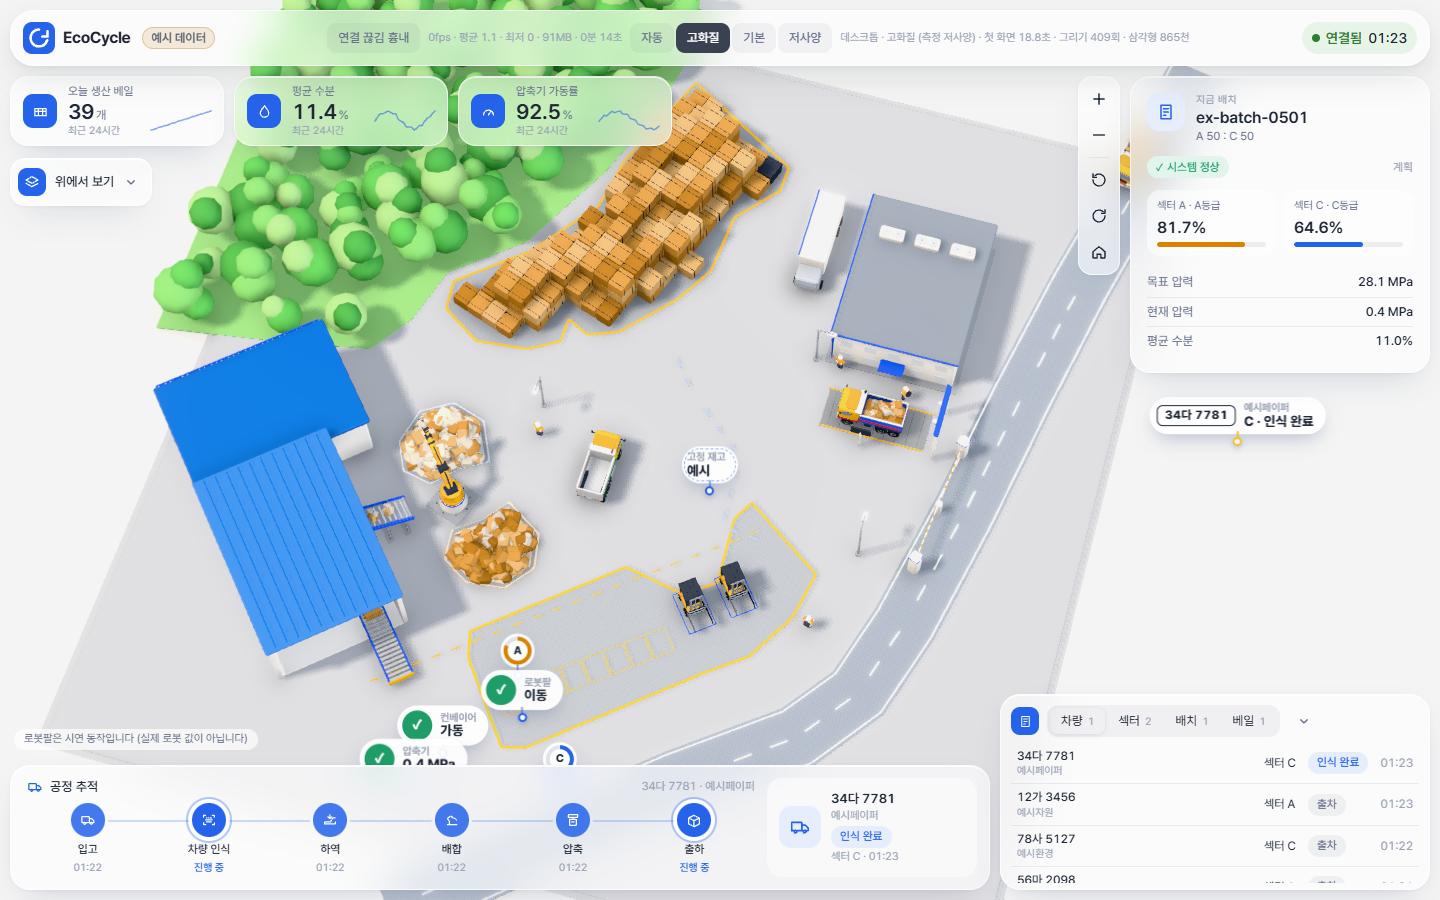
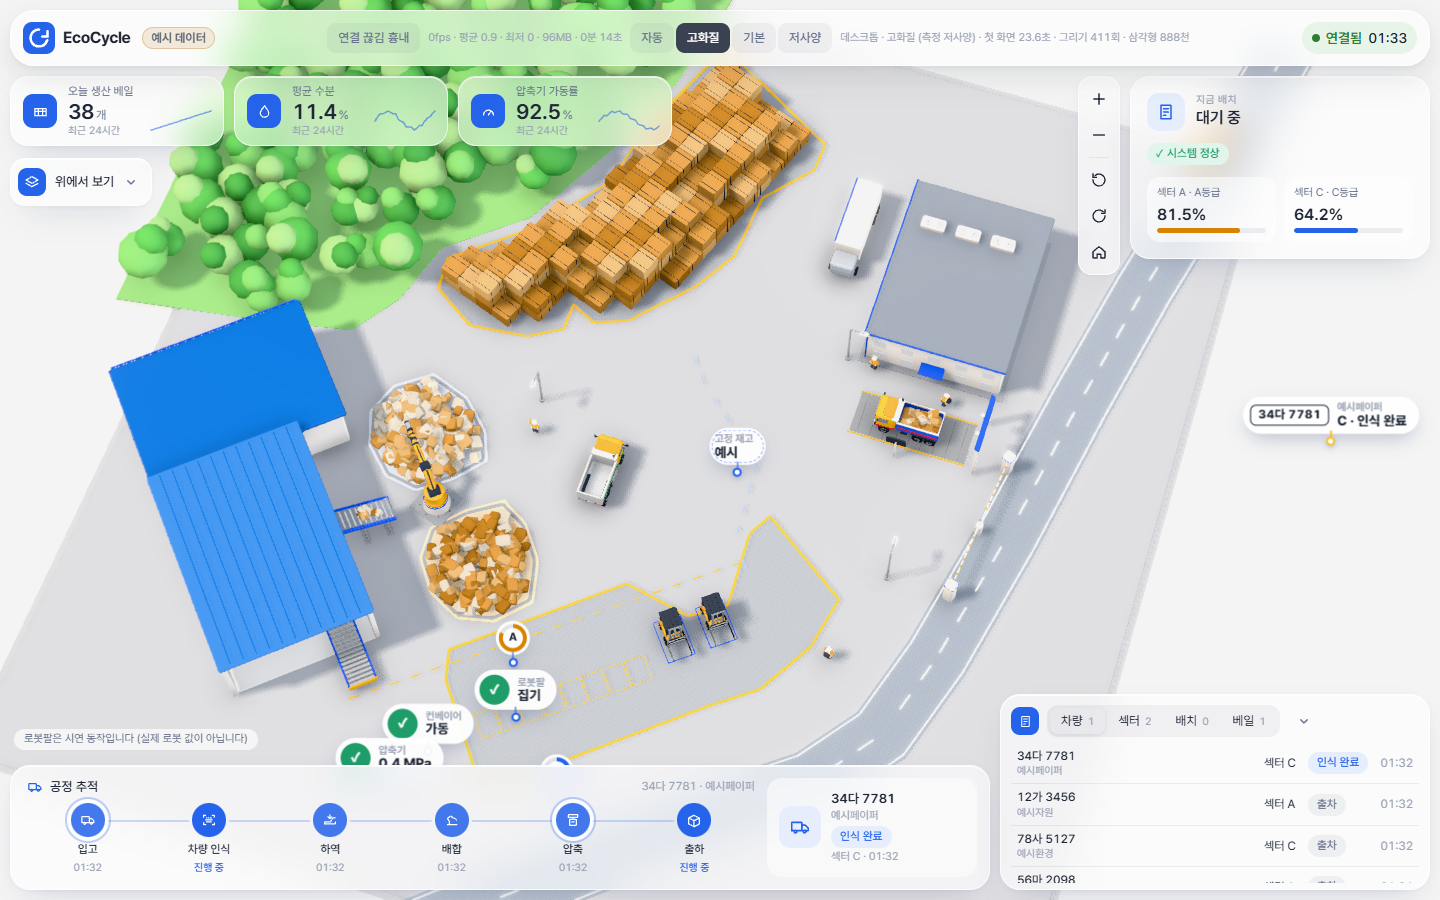
docs(studio): S2e 시안 수정 — 트럭·베일 실측으로 배율 0.072, 섹터 더미를 사진 크기로, 바닥 줄눈·파지 조각

diff --git a/docs/screenshots/studio/site-layout/README.md b/docs/screenshots/studio/site-layout/README.md
@@ -26,6 +26,6 @@
 
 | 파일 | 내용 |
 | --- | --- |
-| `sketch-coordinates.png` | **새 배치 시안**(위 표의 옛 좌표 그림을 바꿨다): 사진 px 좌표(`site-marked` 613×616, 위 = 북) 위에 `overall.png`를 맞춰 깔고 그린 배치. 옹벽·쇠 난간, 입구 경사로(유일한 출입, 차단봉 없음), 계근대(동쪽 끝 = 옹벽, 마당 쪽에서만 오르내림)와 번호판 카메라 기둥, 사무실(골판 2층·차양·실외기·흰 창고·소화기), 압축기 건물(회색 벽·파란 지붕·물탱크), 가로형 압축기·배출 받침대·베일 저울, 레일 축에 대칭인 섹터 A·C, 남동·북서 베일 블록(같은 방향·간격), 숲 경계 베일 줄, 대기 자리 3, 상차 자리(윙바디), 그물망·철판 울타리, 전봇대, 큰 파지 더미, 높은 철 기둥, 트럭·지게차 동선 |
+| `sketch-coordinates.png` | **새 배치 시안**(위 표의 옛 좌표 그림을 바꿨다): 사진 px 좌표(`site-marked` 613×616, 위 = 북) 위에 `overall.png`를 맞춰 깔고 그린 배치. 옹벽·쇠 난간, 입구 경사로(유일한 출입, 차단봉 없음), 계근대(동쪽 끝 = 옹벽, 마당 쪽에서만 오르내림)와 번호판 카메라 기둥, 사무실(골판 2층·차양·실외기·흰 창고·소화기), 압축기 건물(회색 벽·파란 지붕·물탱크), 가로형 압축기·배출 받침대·베일 저울, 레일 축에 대칭인 섹터 A·C(사진의 큰 파지 더미 크기), 흩어진 파지 조각 구역, 콘크리트 줄눈·얼룩, 사진에서 잰 트럭 둘(분홍), 남동·북서 베일 블록(같은 방향·간격), 숲 경계 베일 줄, 대기 자리 3, 상차 자리(윙바디), 그물망·철판 울타리, 전봇대, 큰 파지 더미, 높은 철 기둥, 트럭·지게차 동선 |
 | `before-top-1440x900.png` | 고치기 전 `/scene-demo` 위에서 보기 (기준 브랜치, high) |
-| `draft-top-1440x900.png` | 시안 상태의 `/scene-demo` 위에서 보기: 배율만 1px = 0.064(이전 0.08)로 바꾸고 섹터 더미를 레일 축 대칭으로 옮긴 임시 상태(그 밖은 아직 옛 장면). 이 코드는 시안 통과 뒤 본 구현에서 다시 넣는다 |
+| `draft-top-1440x900.png` | 시안 상태의 `/scene-demo` 위에서 보기(수정 1): 배율 1px = 0.072(이전 0.08), 베일 0.90×0.95, 섹터 더미를 사진 크기로 키워 레일 축 대칭으로 옮긴 임시 상태(트럭 크기와 그 밖은 아직 옛 장면). 이 코드는 시안 통과 뒤 본 구현에서 다시 넣는다 |
